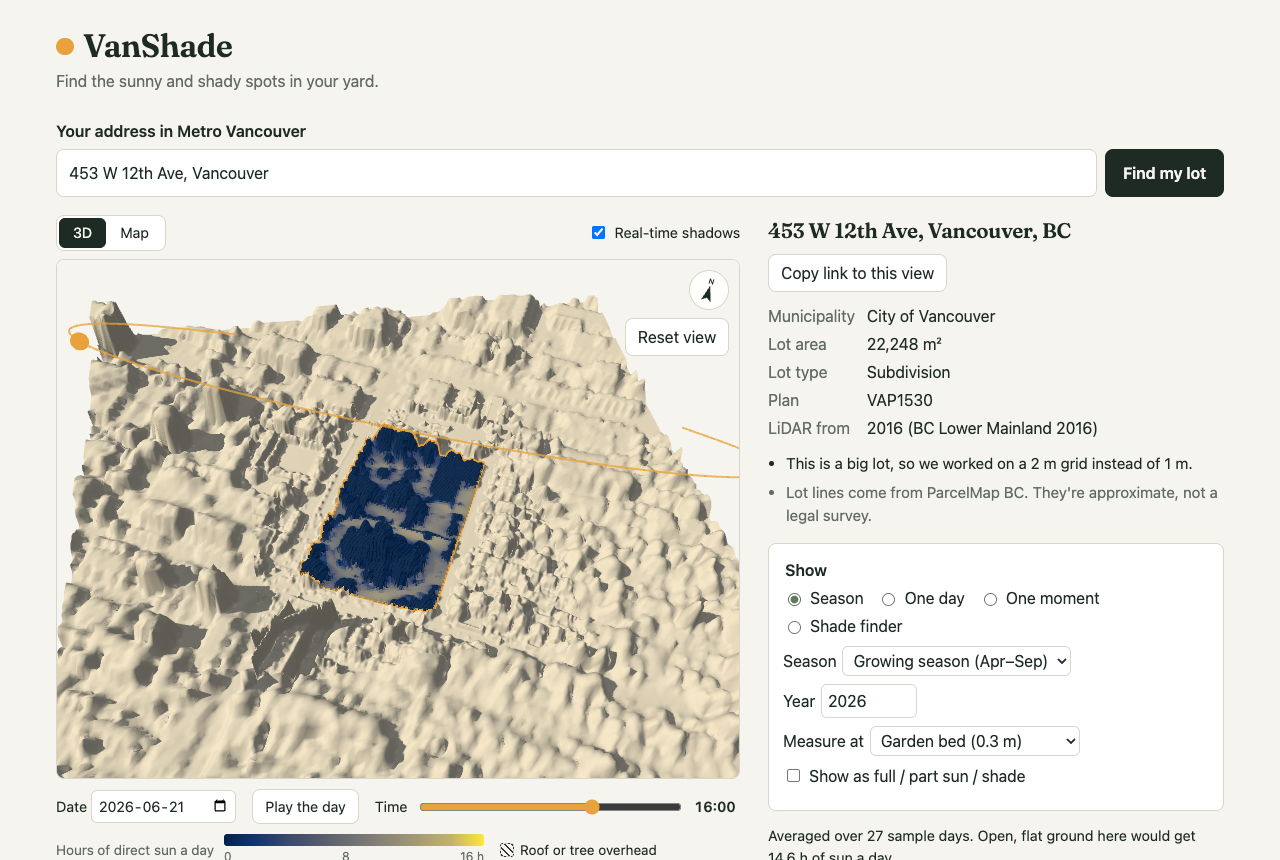
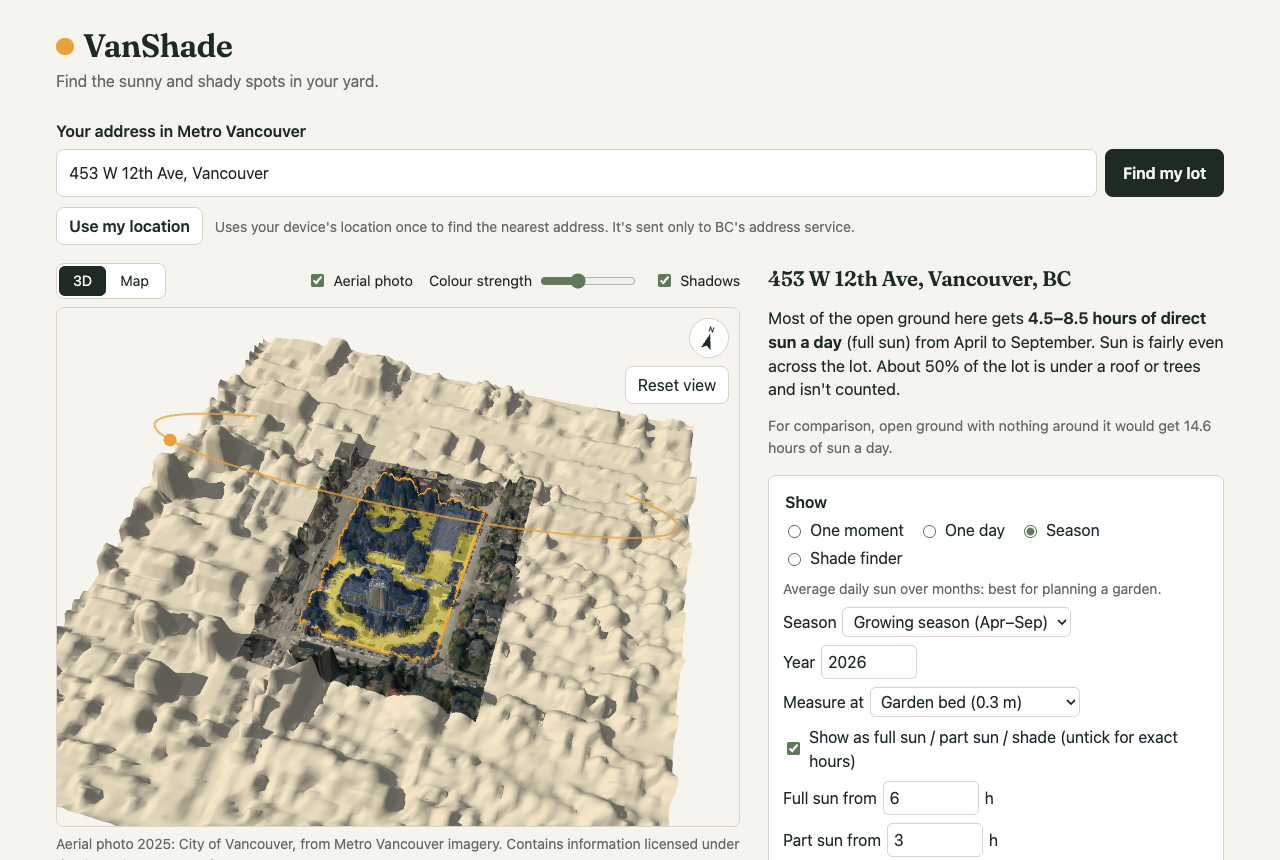
Docs: One moment default, embeds and link previews; README embed and fresh screenshots
- README: the new defaults, Now and sunrise/sunset, "Copy link" with preview cards, and an
  "Embed it" section with the iframe code and a linked picture of the embed (GitHub doesn't run
  iframes in a README). A test keeps that example equal to what "Copy embed code" produces.
- Screenshots regenerated with the current interface, plus docs/screenshots/embed.png
  (spike/11 now waits for the sharper surface and skips the first-visit card).
- DEVELOPMENT.md: .env and VITE_SITE_URL, the debug/embed flags, links always carrying the mode,
  the new defaults, civic-only test locations, spike/24 and spike/08 --strata.

Changed region(s): [[0.0312, 0.2419, 0.9688, 1.0]]

diff --git a/spike/11-screenshots.ts b/spike/11-screenshots.ts
@@ -19,15 +19,24 @@ async function search(page: Page, q: string) {
   await page.waitForTimeout(800);
 }
 
+/** Wait for the sharper surface to swap in, so screenshots show the final detail. */
+async function refined(page: Page) {
+  await page.locator('dd[data-key="surface"]').filter({ hasText: /0\.5 m/ }).waitFor({ state: 'attached', timeout: 120_000 });
+  await page.locator(RESULT).waitFor({ timeout: 60_000 });
+  await page.waitForTimeout(1500);
+}
+const tipsSeen = () => localStorage.setItem('vanshade:tips-seen-v1', '1'); // README shots skip the first-visit card
+
 const browser = await chromium.launch({ args });
 try {
   // Desktop: empty state, then a lot in Season view with the inspector open, then About.
   const desk = await browser.newPage({ viewport: { width: 1280, height: 860 }, deviceScaleFactor: 1 });
+  await desk.addInitScript(tipsSeen);
   await desk.goto(base);
   await desk.screenshot({ path: join(OUT_DIR, 'review-intro.png') });
   await search(desk, '453 W 12th Ave, Vancouver');
   await desk.locator('input[name="mode"][value="season"]').check(); // the default is One moment
-  await desk.locator(RESULT).waitFor();
+  await refined(desk);
   await desk.locator('#tl-date').fill('2026-06-21');
   await desk.locator('#tl-date').dispatchEvent('change');
   await desk.locator('#tl-time').evaluate((el: HTMLInputElement) => {
@@ -39,6 +48,8 @@ try {
   await desk.locator('#inspector svg.chart').waitFor();
   await desk.waitForTimeout(500);
   await desk.locator('.scene-canvas').blur();
+  await desk.evaluate(() => window.scrollTo(0, 0)); // the inspector opens below the fold
+  await desk.waitForTimeout(300);
   await desk.screenshot({ path: join(DOCS, 'desktop.png') });
   await desk.locator('#inspector').screenshot({ path: join(DOCS, 'inspector.png') });
   await desk.screenshot({ path: join(OUT_DIR, 'review-desktop-full.png'), fullPage: true });
@@ -67,12 +78,21 @@ try {
   // Mobile: collapsed and expanded sheet.
   const ctx = await browser.newContext({ ...devices['Pixel 7'] });
   const mob = await ctx.newPage();
-  await mob.goto(base);
-  await search(mob, '355 W Queens Rd, North Vancouver');
+  await mob.addInitScript(tipsSeen);
+  await mob.goto(`${base}#${new URLSearchParams({ a: '355 W Queens Rd, District of North Vancouver, BC', m: 'moment', d: '2026-06-21', t: '15:30' })}`);
+  await refined(mob);
+  await mob.locator('.view-toolbar').evaluate((el) => el.scrollIntoView({ block: 'start' })); // the view, with the sheet below
+  await mob.waitForTimeout(500);
   await mob.screenshot({ path: join(DOCS, 'mobile.png') });
   await mob.locator('#sheet-handle').click();
   await mob.waitForTimeout(300);
   await mob.screenshot({ path: join(OUT_DIR, 'review-mobile-expanded.png') });
+
+  // Embedded (embed=1), the size an iframe in a blog column would be.
+  const emb = await browser.newPage({ viewport: { width: 720, height: 600 }, deviceScaleFactor: 1 });
+  await emb.goto(`${base}#${new URLSearchParams({ a: '453 W 12th Ave, Vancouver, BC', m: 'moment', d: '2026-06-21', t: '15:30', embed: '1' })}`);
+  await refined(emb);
+  await emb.screenshot({ path: join(DOCS, 'embed.png') });
 } finally {
   await browser.close();
 }

diff --git a/tests/embed.test.ts b/tests/embed.test.ts
@@ -1,4 +1,5 @@
 import { describe, expect, it } from 'vitest';
+import readme from '../README.md?raw';
 import { embedSnippet, escapeAttr, fullSiteUrl } from '../src/embed';
 import { decodeHash } from '../src/urlState';
 
@@ -21,6 +22,12 @@ describe('embedding', () => {
     expect(back.debug).toBeUndefined();
     expect(back.address).toBe(state.address);
     expect(url).not.toMatch(/embed=|debug=/);
+  });
+
+  it('matches the example in the README', () => {
+    const { debug: _, ...shown } = state;
+    const code = embedSnippet(PAGE, shown, { mode: 'season' }, 'VanShade: sun and shade at 453 W 12th Ave, Vancouver, BC');
+    expect(readme).toContain(code);
   });
 
   it('escapes addresses and URLs inside attributes', () => {

diff --git a/docs/DEVELOPMENT.md b/docs/DEVELOPMENT.md
@@ -21,8 +21,12 @@ node spike/17-proxy-local.ts            # the LidarBC proxy under Node on :8787;
 node spike/18-imagery-check.ts          # every municipal aerial-photo service: CORS, size, not blank
 node spike/21-elevation-modes.ts <url> [address]   # the three surfaces, the change overlay and switch timings
 gh workflow run refresh-index.yml       # rebuild the LiDAR file index now; opens an issue if new surveys appear (also runs monthly)
-node spike/23-a11y-audit.ts <url>       # axe (WCAG 2.2 AA), keyboard order, phone tap targets, 200% zoom: run before shipping UI changes
+node spike/23-a11y-audit.ts <url>       # axe (WCAG 2.2 AA), keyboard order, phone tap targets, 200% zoom, the embed: run before shipping UI changes
+node spike/24-share-images.ts <url>     # the link-preview card (public/og-image.jpg) and home-screen icon (public/apple-touch-icon.png)
+node spike/08-capture-fixtures.ts [--strata]   # recapture tests/fixtures (--strata: only the strata case)
 ```
+
+`.env` holds local defaults: `VITE_BUILD_SHA=dev` (CI sets the commit) and `VITE_SITE_URL`, the absolute address used in link previews (`og:url`, `og:image`, canonical). CI passes the repository variables `VITE_LIDARBC_PROXY` and `VITE_SITE_URL`; an unset `VITE_SITE_URL` falls back to `.env`. Moving to a custom domain means setting `VITE_SITE_URL` and changing `base` in `vite.config.ts` (and its test).
 
 CI (`.github/workflows/deploy.yml`) runs typecheck, tests (both TZs) and build on every push and PR. Pushes to `main` also deploy to Pages, then the `smoke` job waits for the new build and runs the Playwright smoke test against it. Find the live build in `<meta name="vanshade-build">`; check runs with `gh run list` / `gh run view --log-failed`.
 
@@ -42,6 +46,7 @@ CI (`.github/workflows/deploy.yml`) runs typecheck, tests (both TZs) and build o
 | `src/analysis.ts` | wires a selected lot to the engine, the 3D scene / 2D map, the timeline and the inspector |
 | `src/scene/` | the three.js view (`view3d.ts`, lazy-loaded) plus pure helpers: `frame.ts` (axes, sun direction) and `terrain.ts` (meshes) |
 | `src/ui/` | DOM modules: search, controls, timeline, inspector, the 2D map, design tokens (`tokens.ts` mirrors the CSS variables) |
+| `src/embed.ts` | the "Copy embed code" iframe snippet and the embed's link back to the full site |
 | `tests/` | Vitest specs. `tests/fixtures/` are real responses captured by `spike/08-capture-fixtures.ts`. |
 | `spike/` | Phase 0 probes, with their own `package.json`. Not part of the app build. |
 
@@ -56,6 +61,9 @@ CI (`.github/workflows/deploy.yml`) runs typecheck, tests (both TZs) and build o
 - Design tokens: six colours (`--fog`, `--cedar`, `--moss`, `--sun`, `--shade`, `--mist`). The data ramp stays cividis. The display face is self-hosted Fraunces 600 and the body is system UI. Don't add colours ad hoc; check any new chart hue for contrast and colour-blind separation.
 - The 3D view renders on demand: call `invalidate()` after any change, and there's no animation loop.
 - Shareable state lives in the URL hash (`src/urlState.ts`, every value validated). A new lot uses `pushState`; any other change uses a throttled `replaceState`. If you add a setting, add it there too.
+  - Links always carry the mode (`m=`): links from before One moment became the default left it out for Season, and a link without one still opens in Season (`LINK_DEFAULT_MODE` in `main.ts`).
+  - `debug=1` shows the debug details; `embed=1` is the compact layout for iframes (`.embed` on `<html>`, styles in `styles.css`). Both stay in the hash as the user moves around, and neither goes into copied links or embed code.
+  - Link previews are static Open Graph tags in `index.html`: crawlers don't run scripts, so every link shares one card.
 - The worker reads the DSM for lot + 200 m but the DTM only for lot + 44 m (the DTM is NaN elsewhere). Lots over 3,000 cells compute horizons on helper threads (`workers/horizon.worker.ts`).
 - **Progressive refinement:** the first result is HRDEM 1 m (EPSG:3979).
   - `Analysis.refine()` then loads the surface the "Elevation data" setting picks from `refinementOptions()`: `best` (the `merged` spec: point cloud plus LidarBC, `elevation/change.ts`), `newest` (LidarBC 1 m) or `detailed` (point cloud 0.5 m). All three are in EPSG:3157 and in the URL as `elev=` (`hrdem` is debug-only; old `copc`/`lidarbc` links map across). If one fails, the next is tried.
@@ -68,7 +76,9 @@ CI (`.github/workflows/deploy.yml`) runs typecheck, tests (both TZs) and build o
   - Technical facts (lot type, plan, LiDAR rows) live in the "Lot and data details" disclosure (`setFact(..., more = true)`); the surface choice sits under "More options".
   - New user-facing text says "laser scans", not "LiDAR"/"DSM"/"grid", and lives in `copy.ts`.
   - `localStorage` is used only to remember that the "How to read this" card was dismissed (`ui/tips.ts`, wrapped in try/catch).
-  - Defaults favour new visitors: the full / part sun / shade view and the aerial photo are on (`cls=0` / `img=0` in links turn them off).
+  - Defaults favour new visitors: One moment at the current time (midday if it's dark, with a note in the headline: `Timeline.showingMiddayForNight`), the aerial photo on with the colours at 50%, and full / part sun / shade for One day and Season (`cls=0` / `img=0` in links turn them off).
+  - The panel leads with the result and then the "Show" controls; on phones the collapsed sheet is only the address and the result.
+  - Test locations are civic, commercial or council sites, never homes (see `spike/addresses.ts`). Check new ones in ParcelMap BC before committing them.
   - New UI must keep `spike/23-a11y-audit.ts` clean: zero axe violations, no phone tap targets under 24 px, no horizontal scroll at 200% zoom.
 - The 3D mesh near the lot is `buildTerraced` (true cell footprints, vertical walls between smooth cells more than 2 m apart, rough cells such as tree crowns blended). Overlays use its tops only (`walls: false`). It's rendering only: the engine never sees it.
 

diff --git a/README.md b/README.md
@@ -7,28 +7,30 @@ afternoon.
 
 **Live:** https://wattyven.github.io/VanShade/
 
-![VanShade showing Vancouver City Hall's lot in 3D, coloured by hours of direct sun, with the day's sun path](docs/screenshots/desktop.png)
+![VanShade showing Vancouver City Hall's lot in 3D over its aerial photo, coloured by full sun, part sun and shade over the growing season, with the day's sun path](docs/screenshots/desktop.png)
 
 <p>
   <img src="docs/screenshots/inspector.png" alt="The spot inspector: average sun-hours by month and the sun/shade strip for one day" width="480">
-  <img src="docs/screenshots/mobile.png" alt="VanShade on a phone, with the details in a bottom sheet" width="220">
+  <img src="docs/screenshots/mobile.png" alt="VanShade on a phone: the 3D view, with the result in a bottom sheet" width="220">
 </p>
 
 ## Using it
 
-- **Search** for an address (Metro Vancouver only), or tap **Use my location** to start from where you're standing. VanShade finds the lot, loads the LiDAR around it and colours the lot by
-  hours of direct sun. A sentence at the top sums it up, e.g. "Most of the open ground here gets 4.5–7.5 hours of direct
-  sun a day (part sun) from April to September. The sunniest part is toward the east…". First-time visitors get a short
-  "How to read this" card, and the About panel explains the terms.
+- **Search** for an address (Metro Vancouver only), or tap **Use my location** to start from where you're standing. VanShade
+  finds the lot, loads the LiDAR around it and shows where the sun is falling right now. A sentence at the top sums it up,
+  e.g. "At 3:30 pm on 21 June, 78% of the open ground is in direct sun." After dark it shows midday instead, and says so.
+  First-time visitors get a short "How to read this" card, and the About panel explains the terms.
 - **Show:**
-  - *Season* averages daily sun over a preset or custom range (the growing season by default).
+  - *One moment* (the default) shows sun or shade now, or at a time you pick.
   - *One day* gives the sun-hours for a single day.
-  - *One moment* shows sun or shade at a time you pick.
+  - *Season* averages daily sun over a preset or custom range (the growing season by default), e.g. "Most of the open
+    ground here gets 4.5–7.5 hours of direct sun a day (part sun) from April to September."
   - *Shade finder* shows how often each spot is shaded in a daily time window (say 1–6 pm through summer).
 - **Measure at** garden-bed height (0.3 m), seated (1.2 m) or on a roof or deck surface.
-- **Full / part sun / shade:** the default view, with adjustable thresholds (6 h and 3 h); untick it for exact hours. The
-  aerial photo is on by default where the municipality publishes one.
-- **Time slider and Play the day:** move the sun and its real-time shadows.
+- **Full / part sun / shade:** how One day and Season are coloured, with adjustable thresholds (6 h and 3 h); untick it
+  for exact hours. The aerial photo is on by default where the municipality publishes one, with the colours at half
+  strength over it.
+- **Time slider, Now and Play the day:** move the sun and its shadows between sunrise and sunset (both shown).
 - **Click a spot**, or focus the view, step with the arrow keys and press Enter, to see that spot's average sun month by month
   and its sun/shade through the day.
 - **Elevation data:** where both surveys exist, choose *Best of both* (2016 detail, updated wherever something changed by
@@ -36,8 +38,25 @@ afternoon.
   changed.
 - **Aerial photo:** where the municipality publishes open orthophotos (Vancouver, Burnaby, Surrey, Coquitlam, the District of
   North Vancouver, Delta, Maple Ridge, both Langleys, Port Coquitlam, White Rock), drape the photo under the results, with a
-  slider for how see-through the results are.
-- **Copy link to this view:** the address, lot, mode, dates, time and photo setting are all in the URL.
+  slider for the colours' strength.
+- **Copy link:** the address, lot, mode, dates, time and photo setting are all in the URL. Shared links show a preview
+  card in chat apps and social media.
+- **Copy embed code:** an `<iframe>` for the current lot and time, for a blog or a garden club page. The embedded view is
+  compact (the 3D view, the result, the modes and the time slider) with a link to the full site.
+
+## Embed it
+
+Put a live VanShade view on your own page, such as a blog post or a garden club site. Open a lot, choose the mode, date and
+time, then press **Copy embed code**. You get an iframe like this one:
+
+```html
+<iframe src="https://wattyven.github.io/VanShade/#a=453+W+12th+Ave%2C+Vancouver%2C+BC&amp;m=moment&amp;d=2026-06-21&amp;t=15%3A30&amp;embed=1" width="100%" height="600" style="border:0" loading="lazy" title="VanShade: sun and shade at 453 W 12th Ave, Vancouver, BC"></iframe>
+```
+
+[![The embedded view of Vancouver City Hall at 3:30 pm on 21 June: the result in a sentence, the mode buttons and the 3D view over the aerial photo](docs/screenshots/embed.png)](https://wattyven.github.io/VanShade/#a=453+W+12th+Ave%2C+Vancouver%2C+BC&m=moment&d=2026-06-21&t=15%3A30&embed=1)
+
+GitHub doesn't run iframes in a README, so this is a picture of that embed; click it to open it live. The embed keeps the
+3D view, the result, the modes and the time slider, credits the data, and links to the full site.
 
 ## How it works
 
